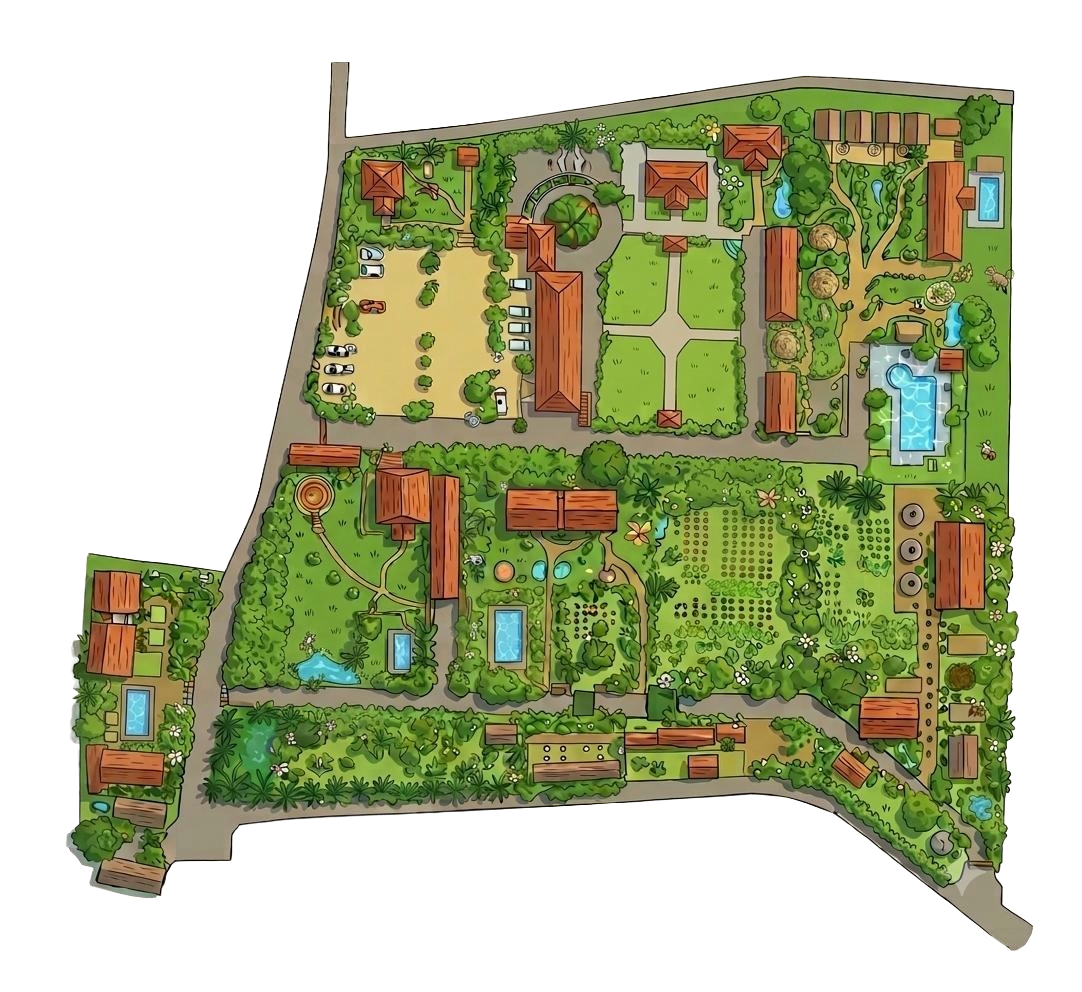
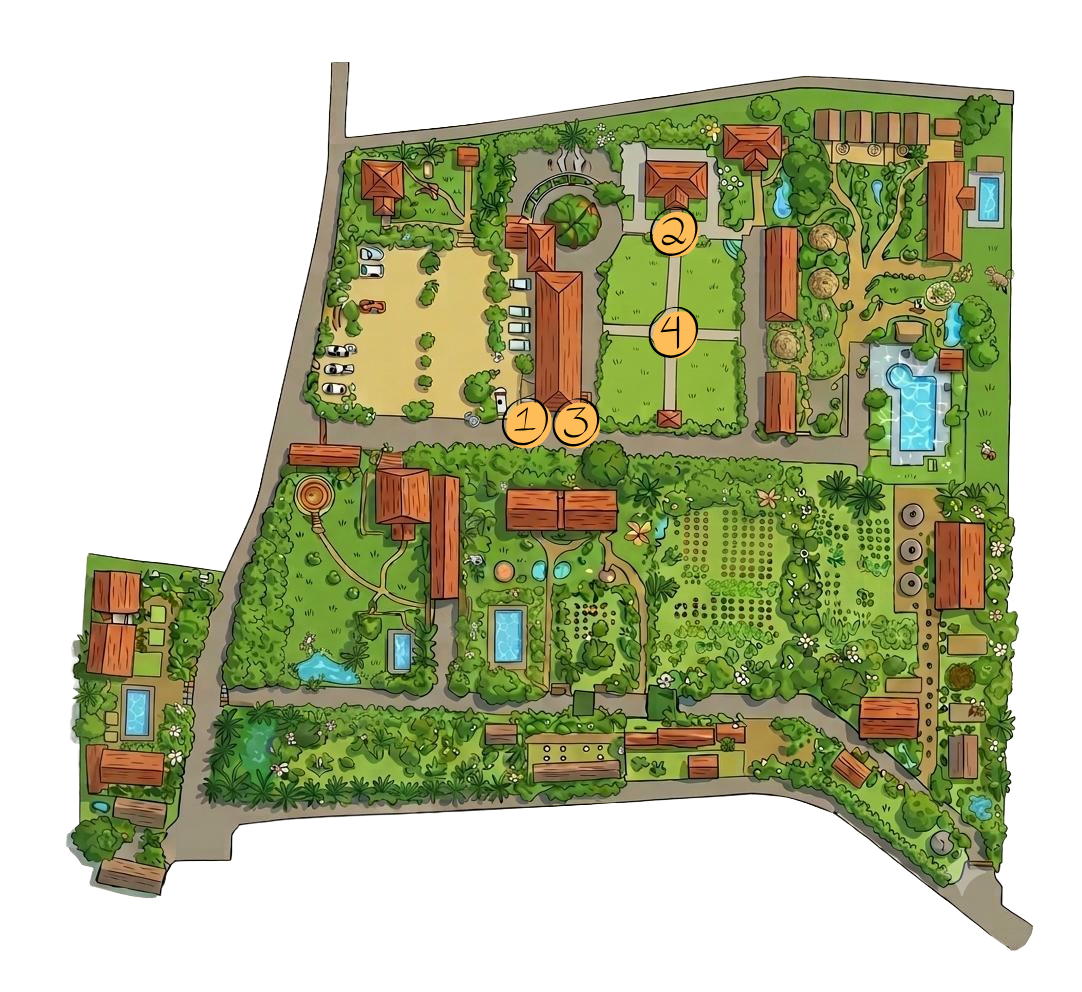
Updated the map click feature

Changed region(s): [[0.4575, 0.4062, 0.5795, 0.4688], [0.5795, 0.1875, 0.671, 0.2812], [0.5795, 0.3125, 0.671, 0.375]]

diff --git a/css/style.css b/css/style.css
@@ -808,6 +808,147 @@ html.cover-active body {
   width: 100%;
   max-width: 380px;
   margin: 0.5rem auto 0.7rem;
+  position: relative;
+}
+
+/* ── Interactive map pointers ── */
+.sfr-map-pointer {
+  position: absolute;
+  width: 32px;
+  height: 32px;
+  background: rgba(255, 255, 255, 0);
+  border-radius: 50%;
+  cursor: pointer;
+  transform: translate(-50%, -50%);
+  transition: background 0.2s ease;
+  -webkit-tap-highlight-color: transparent;
+}
+.sfr-map-pointer:hover,
+.sfr-map-pointer:focus {
+  background: rgba(255, 189, 89, 0.55);
+  outline: none;
+}
+
+/* ── Resort map popup ── */
+.sfr-popup-overlay {
+  display: none;
+  position: fixed;
+  inset: 0;
+  background: rgba(44, 20, 20, 0.48);
+  backdrop-filter: blur(6px);
+  -webkit-backdrop-filter: blur(6px);
+  z-index: 1100;
+  opacity: 0;
+  transition: opacity 0.35s ease;
+}
+.sfr-popup {
+  display: none;
+  position: fixed;
+  top: 50%;
+  left: 50%;
+  transform: translate(-50%, -50%) scale(0.85);
+  background: var(--ivory);
+  border-radius: 22px;
+  box-shadow: var(--shadow-float), 0 0 0 1px rgba(201, 169, 110, 0.18);
+  z-index: 1101;
+  width: 90%;
+  max-width: 380px;
+  overflow: hidden;
+  opacity: 0;
+  transition: transform 0.42s cubic-bezier(0.34, 1.56, 0.64, 1), opacity 0.3s ease;
+}
+.sfr-popup-overlay.active,
+.sfr-popup.active {
+  display: block;
+  opacity: 1;
+}
+.sfr-popup.active {
+  transform: translate(-50%, -50%) scale(1);
+}
+
+/* Header band */
+.sfr-popup-header {
+  background: linear-gradient(135deg, var(--blush) 0%, var(--rose) 55%, var(--rose-mid) 100%);
+  position: relative;
+  height: 86px;
+  overflow: visible;
+}
+.sfr-popup-leaves {
+  position: absolute;
+  inset: 0;
+  width: 100%;
+  height: 100%;
+}
+.sfr-popup-badge {
+  position: absolute;
+  bottom: -24px;
+  left: 50%;
+  transform: translateX(-50%);
+  width: 48px;
+  height: 48px;
+  background: linear-gradient(145deg, var(--gold-light) 0%, var(--gold) 100%);
+  border: 3px solid var(--ivory);
+  border-radius: 50%;
+  display: flex;
+  align-items: center;
+  justify-content: center;
+  font-family: var(--font-display);
+  font-size: 1.35rem;
+  font-weight: 600;
+  color: var(--white);
+  box-shadow: 0 4px 16px rgba(201, 169, 110, 0.5);
+  z-index: 2;
+  line-height: 1;
+}
+
+/* Body */
+.sfr-popup-body {
+  padding: 2.4rem 1.8rem 1.6rem;
+  text-align: center;
+}
+.sfr-popup-title {
+  font-family: var(--font-display);
+  font-size: 1.45rem;
+  font-style: italic;
+  font-weight: 500;
+  color: var(--text-dark);
+  margin: 0 0 0.6rem;
+  line-height: 1.3;
+}
+.sfr-popup-divider {
+  width: 130px;
+  margin: 0 auto 0.9rem;
+}
+.sfr-popup-divider svg {
+  width: 100%;
+  height: auto;
+  display: block;
+}
+.sfr-popup-desc {
+  font-family: var(--font-body);
+  font-size: 0.87rem;
+  color: var(--text-mid);
+  line-height: 1.75;
+  margin: 0 0 1.5rem;
+}
+.sfr-close-btn {
+  background: transparent;
+  border: 1.5px solid var(--rose-mid);
+  color: var(--rose-mid);
+  padding: 0.55rem 2.2rem;
+  border-radius: 30px;
+  font-family: var(--font-body);
+  font-size: 0.78rem;
+  font-weight: 500;
+  letter-spacing: 0.08em;
+  text-transform: uppercase;
+  cursor: pointer;
+  transition: background 0.22s, color 0.22s, box-shadow 0.22s;
+}
+.sfr-close-btn:hover {
+  background: var(--rose-mid);
+  color: var(--white);
+  box-shadow: 0 4px 18px rgba(217, 108, 126, 0.35);
 }
 
 .location-map-wrap img {

diff --git a/js/script.js b/js/script.js
@@ -959,7 +959,67 @@ function initMusicToggle() {
 }
 
 /* ================================================================
-   14. BOOT — runs when the DOM is fully parsed
+   14. INTERACTIVE RESORT MAP
+   Renders invisible click zones over the numbered markers on
+   the SFR_Map.png venue image and shows a popup with details.
+   ================================================================ */
+function initSFRMap() {
+  var layer = document.getElementById('sfr-pointers-layer');
+  var popup = document.getElementById('sfr-popup');
+  var overlay = document.getElementById('sfr-overlay');
+  var closeBtn = document.getElementById('sfr-close-btn');
+  if (!layer || !popup || !overlay) return;
+
+  // x / y are percentages of the image width / height
+  var locations = [
+    { id: 1, x: 48.5, y: 42.5, title: 'Main Villa — Nichayathartham', desc: 'Where Our Journey Begins \uD83D\uDC8D  This is the spot where our families come together, promises are made, and our official countdown begins!' },
+    { id: 2, x: 62.1, y: 23.0, title: 'Swar Lawn — Reception',         desc: 'Party & Feast Destination \uD83C\uDF89  Come over here for music, laughter, a grand feast, and to toast the newlyweds.' },
+    { id: 3, x: 53, y: 43, title: 'Main Villa — Upanayanam',       desc: 'The Sacred Threshold \u2728  The venue for the traditional thread ceremony. Join us to bless a beautiful new milestone of wisdom and tradition.' },
+    { id: 4, x: 62.1, y: 34.0, title: 'Swar Lawn — Wedding',          desc: 'The Main Event (Muhurtham) \uD83C\uDF38  The big moment! Witness the sacred vows, the tying of the mangalsutra, and the start of our forever.' }
+  ];
+
+  locations.forEach(function(loc) {
+    var btn = document.createElement('button');
+    btn.className = 'sfr-map-pointer';
+    btn.setAttribute('aria-label', 'View details for ' + loc.title);
+    btn.style.left = loc.x + '%';
+    btn.style.top  = loc.y + '%';
+    btn.addEventListener('click', function() { openSFRPopup(loc); });
+    layer.appendChild(btn);
+  });
+
+  function openSFRPopup(loc) {
+    document.getElementById('sfr-popup-badge').textContent = loc.id;
+    document.getElementById('sfr-popup-title').textContent = loc.title;
+    document.getElementById('sfr-popup-desc').textContent  = loc.desc;
+    popup.style.display   = 'block';
+    overlay.style.display = 'block';
+    setTimeout(function() {
+      popup.classList.add('active');
+      overlay.classList.add('active');
+    }, 10);
+  }
+
+  function closeSFRPopup() {
+    popup.classList.remove('active');
+    overlay.classList.remove('active');
+    // Remove focus from the pointer button so the hover highlight disappears
+    if (document.activeElement) document.activeElement.blur();
+    setTimeout(function() {
+      popup.style.display   = 'none';
+      overlay.style.display = 'none';
+    }, 300);
+  }
+
+  overlay.addEventListener('click', closeSFRPopup);
+  closeBtn.addEventListener('click', closeSFRPopup);
+  document.addEventListener('keydown', function(e) {
+    if (e.key === 'Escape' && popup.classList.contains('active')) closeSFRPopup();
+  });
+}
+
+/* ================================================================
+   15. BOOT — runs when the DOM is fully parsed
    ================================================================ */
 document.addEventListener('DOMContentLoaded', () => {
 
@@ -989,5 +1049,8 @@ document.addEventListener('DOMContentLoaded', () => {
 
   // ── 8. Background music toggle button ──
   initMusicToggle();
+
+  // ── 9. Interactive resort venue map ──
+  initSFRMap();
 
 });

diff --git a/index.html b/index.html
@@ -329,11 +329,12 @@
       </div>
     </div>
     <div class="venue-body reveal">
-      <!-- EDIT: Make sure SFR_layout_map_alone.jpeg is in the assets/ folder -->
+      <!-- EDIT: Make sure SFR_Map.png is in the assets/ folder -->
       <div class="location-map-wrap">
         <img src="assets/SFR_Map.png"
              alt="Selvamathi Farm Resorts layout map"
-             loading="lazy" />
+             loading="lazy" id="sfrMapImage" />
+        <div id="sfr-pointers-layer" aria-hidden="true"></div>
       </div>
       <!-- EDIT: Replace both URLs with your exact Google Maps share link -->
       <a href="https://www.google.com/maps/search/Selvamathi+Farm+Resorts"
@@ -761,5 +762,54 @@
   </footer>
 
   <script src="js/script.js" defer></script>
+
+  <!-- Resort map popup (rendered by initSFRMap in script.js) -->
+  <div class="sfr-popup-overlay" id="sfr-overlay"></div>
+  <div class="sfr-popup" id="sfr-popup" role="dialog" aria-modal="true" aria-labelledby="sfr-popup-title">
+
+    <!-- Floral header band -->
+    <div class="sfr-popup-header" aria-hidden="true">
+      <svg class="sfr-popup-leaves" viewBox="0 0 380 86" xmlns="http://www.w3.org/2000/svg" preserveAspectRatio="xMidYMid slice">
+        <!-- left branch -->
+        <path d="M8,72 C38,55 78,48 132,57" stroke="rgba(255,255,255,0.42)" stroke-width="1.5" fill="none" stroke-linecap="round"/>
+        <ellipse cx="40" cy="57" rx="15" ry="6" fill="rgba(255,255,255,0.2)"  transform="rotate(-26 40 57)"/>
+        <ellipse cx="76" cy="49" rx="12" ry="5" fill="rgba(255,255,255,0.16)" transform="rotate(-12 76 49)"/>
+        <ellipse cx="12" cy="69" rx="9"  ry="4" fill="rgba(255,255,255,0.13)" transform="rotate(-42 12 69)"/>
+        <circle cx="8"  cy="72" r="7"   fill="rgba(255,255,255,0.28)"/>
+        <circle cx="8"  cy="72" r="4"   fill="rgba(255,255,255,0.48)"/>
+        <circle cx="8"  cy="72" r="1.8" fill="rgba(255,255,255,0.72)"/>
+        <!-- right branch (mirror) -->
+        <path d="M372,72 C342,55 302,48 248,57" stroke="rgba(255,255,255,0.42)" stroke-width="1.5" fill="none" stroke-linecap="round"/>
+        <ellipse cx="340" cy="57" rx="15" ry="6" fill="rgba(255,255,255,0.2)"  transform="rotate(26 340 57)"/>
+        <ellipse cx="304" cy="49" rx="12" ry="5" fill="rgba(255,255,255,0.16)" transform="rotate(12 304 49)"/>
+        <ellipse cx="368" cy="69" rx="9"  ry="4" fill="rgba(255,255,255,0.13)" transform="rotate(42 368 69)"/>
+        <circle cx="372" cy="72" r="7"   fill="rgba(255,255,255,0.28)"/>
+        <circle cx="372" cy="72" r="4"   fill="rgba(255,255,255,0.48)"/>
+        <circle cx="372" cy="72" r="1.8" fill="rgba(255,255,255,0.72)"/>
+      </svg>
+      <!-- Gold number medallion -->
+      <span class="sfr-popup-badge" id="sfr-popup-badge">1</span>
+    </div>
+
+    <!-- Content body -->
+    <div class="sfr-popup-body">
+      <h3 class="sfr-popup-title" id="sfr-popup-title">Location Title</h3>
+
+      <!-- Botanical divider -->
+      <div class="sfr-popup-divider" aria-hidden="true">
+        <svg viewBox="0 0 130 16" xmlns="http://www.w3.org/2000/svg">
+          <line x1="0" y1="8" x2="48" y2="8" stroke="#D96C7E" stroke-width="0.8" opacity="0.38"/>
+          <path d="M56,8 C54,4 50,2 56,8 C62,14 64,2 56,8Z" fill="#D96C7E" opacity="0.6"/>
+          <circle cx="65" cy="8" r="2.2" fill="#C9A96E"/>
+          <path d="M74,8 C72,4 68,2 74,8 C80,14 82,2 74,8Z" fill="#D96C7E" opacity="0.6"/>
+          <line x1="82" y1="8" x2="130" y2="8" stroke="#D96C7E" stroke-width="0.8" opacity="0.38"/>
+        </svg>
+      </div>
+
+      <p class="sfr-popup-desc" id="sfr-popup-desc">Details...</p>
+      <button class="sfr-close-btn" id="sfr-close-btn">Close</button>
+    </div>
+
+  </div>
 </body>
 </html>